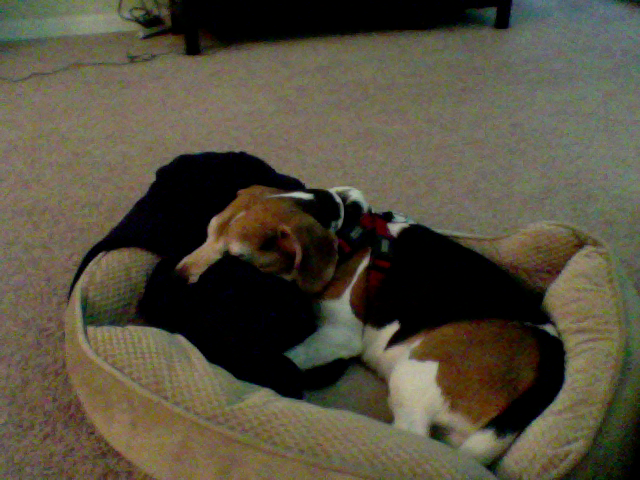
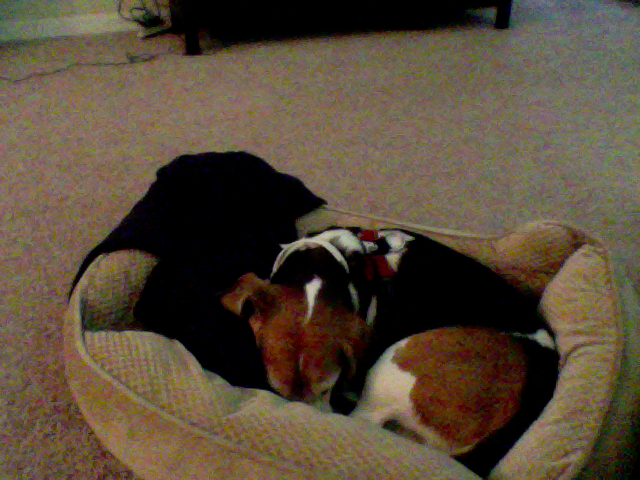
update at Month05Day12Time11:25

diff --git a/index.html b/index.html
@@ -39,8 +39,8 @@
       <!-- Example row of columns -->
       <div class="row">
         <div class="col-md-4">
-	<p>This picture was updated at Month05Day12Time11:24</p>
-		<img src="5_pic.png" />
+	<p>This picture was updated at Month05Day12Time11:25</p>
+		<img src="4_pic.png" />
         </div>
       </div>
 
